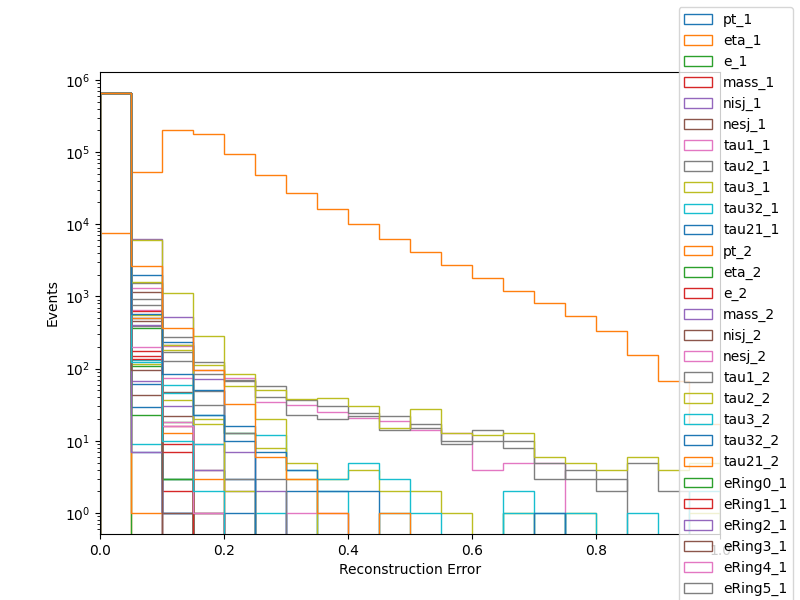
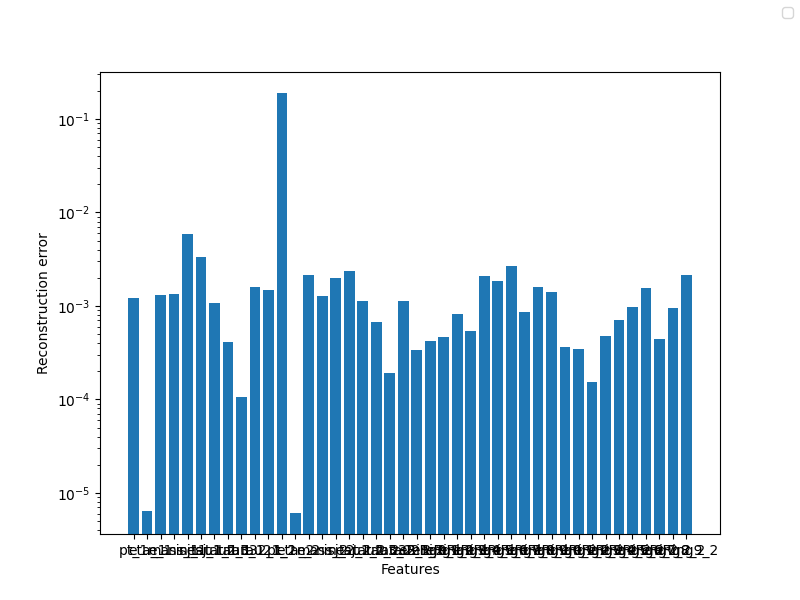
Testing with minmax scaling and 84, 14 layer dimensions

diff --git a/test.py b/test.py
@@ -228,15 +228,11 @@ fig.savefig(f"figs/testing/normalised_mass_dist_{scale}_{mid_dim}_{latent_dim}.p
 
 ############################################ Normalised Mass Distribution  ##############################################
 
-nbins = 20
 fig, axes = plt.subplots(figsize=(8,6))
-for i, column in enumerate(selection):
-    axes.hist([loss_bkg_all[column]], nbins, range=(0, 1), density=0, histtype='step', label=[f'{column}'], alpha=1)
-    
-axes.set_xlabel(f"Reconstruction Error")
-axes.set_ylabel("Events")
+axes.bar(loss_bkg_all.columns, loss_bkg_all.mean().values)
+axes.set_xlabel("Features")
+axes.set_ylabel("Reconstruction error")
 axes.set_yscale("log")
-axes.set_xlim(0, 1)
+# axes.set_xlim(0, 1)
 fig.legend()
 fig.savefig(f"figs/testing/error_{scale}_{mid_dim}_{latent_dim}.png")
-plt.close()
